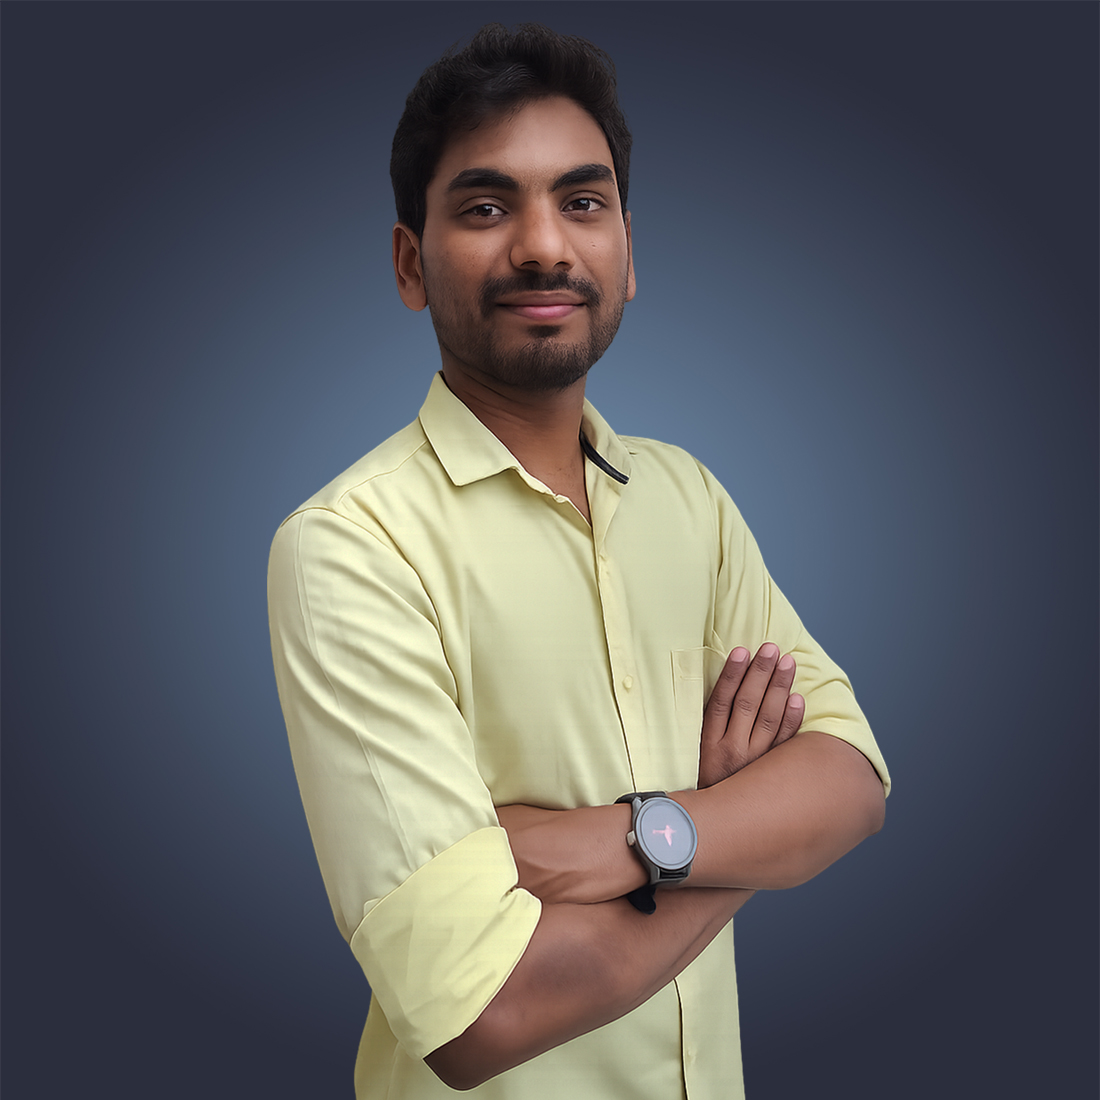
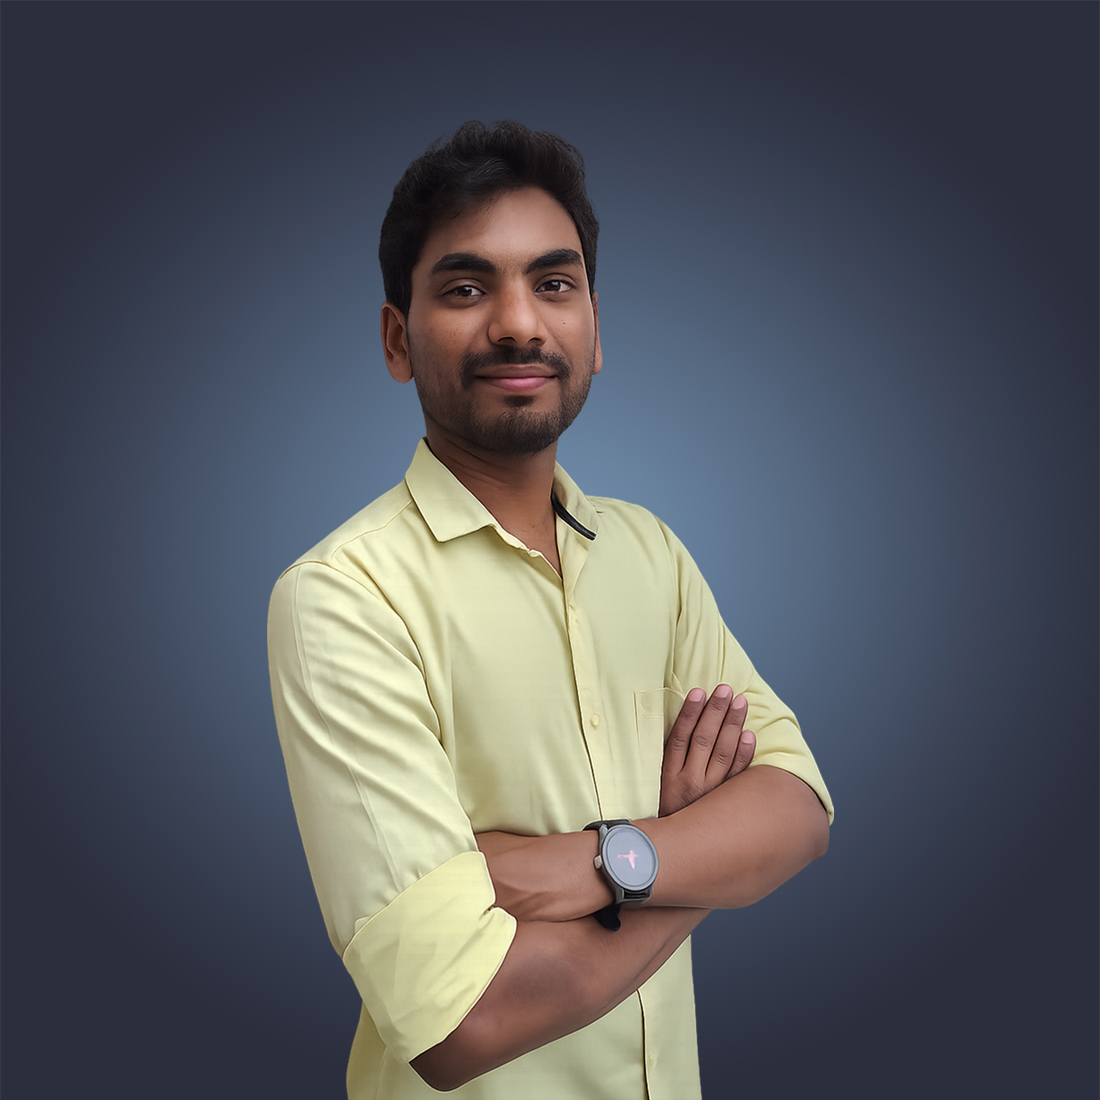
About me section layout updated in Grid in css

Changed region(s): [[0.2164, 0.0309, 0.8345, 1.0]]

diff --git a/CSS/style-sheet1.css b/CSS/style-sheet1.css
@@ -9,6 +9,11 @@ body{
     background-color: black;
 }
 
+.space{
+    width: 100%;
+    height: 100vh;
+}
+
 
 /* HEADER section */
 .intro{
@@ -157,7 +162,6 @@ body{
     background-image: radial-gradient(800px at top left, rgb(22, 72, 1), rgb(0, 0, 0));  
     position: relative;
     z-index: 0;
-    margin-bottom:50vh;
 
 }
 
@@ -255,13 +259,27 @@ body{
 
 /* Section "About me" */
 .about-me{
-    height: 100vh!important;
+    width: 100%;
+    height: 100vh;
     background: radial-gradient(400px at center, rgb(19, 61, 1), rgb(0, 0, 0));
-    overflow: hidden;
+    /* overflow: hidden; */
+    padding: 1%;
+}   
+
+.about-box{
+    width:100%;
+    height: 100%;
+    display: grid;
+    grid-template-columns: 40% 50%;
+    grid-template-rows: 10% 70%;
+    gap: 10% 5%;
+    align-items: start;
+    justify-content: center;
 }
 
-
 .about{
+    width:100%;
+    height: 100%;
     background-image: linear-gradient(45deg, rgb(3, 150, 3), rgb(0, 245, 53), rgb(0, 221, 255), rgb(0, 221, 255));
     -webkit-background-clip: text;
     background-clip: text;
@@ -269,20 +287,16 @@ body{
     -webkit-text-fill-color: transparent;
     font-weight: bolder;
     font-size: 36px;
-    display: inline-block;
-
-}
-
-.box{
-    width: 100%; 
-    height: 90vh;
-    gap:5%;
-    padding: 0 5%;
+    /* display: inline-block; */
+    grid-column: span 2;
+    display: flex;
+    align-items: center;
+    justify-content: center;
 }
 
 .img-box{
-    width: 35%;
-    height: 90%;
+    width: 100%;
+    height: 100%;
     background: url("../images/about-me picture.jpg");
     background-repeat: no-repeat;
     background-position: center;
@@ -303,18 +317,15 @@ body{
 }
 
 .about-text{
-    width: 50%;
-    height: 90%;
-    /* border: 2px solid white; */
+    width: 100%;
+    height: 100%;
     padding: 3% 0%;
-    word-wrap: break-word;
-    p{
-        font-size: 20px;
-        font-weight: 600;
-        color: bisque;
-        margin: 20px 0px
-    }
-
+}
+.about-text p{
+    font-size: 20px;
+    font-weight: 600;
+    color: bisque;
+    margin: 20px 0px
 }
 
 .name{

diff --git a/JS/script.js b/JS/script.js
@@ -10,6 +10,8 @@ var sidebar_active = false;
 // Variables for Hero section
 const main_box = document.querySelector(".home-box");
 // Variables for About me section
+const about = document.querySelector(".about");
+const about_text = document.querySelector(".about-text");
 const port_img = document.querySelector(".img-box");
 const projects = document.querySelector(".projects");
 const textBox_1 = document.querySelector(".textBox-1");
@@ -22,6 +24,7 @@ const menuTween = gsap.to(toggleIcon, {rotation:180, duration:1, repeat: 0});
 // Nav bar hidding script
 var lastScrollTop = 0;
 
+// Nav action listner for hiding 
 window.addEventListener("scroll",()=>{
     var scrollVal = window.pageYOffset || document.documentElement.scrollTop;
     if(scrollVal > lastScrollTop){
@@ -55,19 +58,36 @@ gsap.to(main_box, {
     opacity: 0
 });
 
-// About me scroll trigger
-// gsap.from(port_img, {
+// About me scroll trigger Animation
+// Animation for "About me" heading 
+// gsap.from(about, {
 //     scrollTrigger:{
-//         trigger: port_img,
-//         start: "top center",
-//         end: "bottom center",
+//         trigger: ".about-box",
+//         start: "top top",
+//         end: "bottom top",
 //         scrub:true,
 //         pin:true,
 //         markers: true
 //     },
-//     xPercent:-200,
+//     y: 100,
 //     opacity: 0,
 // });
+
+// gsap.from(port_img, {
+//     scrollTrigger:{
+//         trigger: ".about-box",
+//         start: "top top",
+//         end: "bottom top",
+//         scrub: true,
+//         pin: true,
+//         markers: true
+//     },
+//     x:100,
+//     opacity:0
+// })
+
+
+
 
 // Project I animation
 // Pro-I text
@@ -81,7 +101,7 @@ gsap.from(textBox_1, {
         
     },
     xPercent: -100,
-    delay: 1
+    // delay: 1
 });
 // Pro-I Video
 gsap.from(videoBox_1, {

diff --git a/index.html b/index.html
@@ -23,8 +23,8 @@
 
 <!-- STYLE SHEET LINKS -->
     <link rel="stylesheet" href="CSS/style-sheet1.css">  
-    <link rel="stylesheet" href="CSS/style-sheet1-mobile.css">
     <link rel="stylesheet" href="CSS/style-sheet1-tab.css">
+    <link rel="stylesheet" href="CSS/style-sheet1-mobile.css">
 
 <!-- GSAP link -->
     <script src="https://cdn.jsdelivr.net/npm/gsap@3.13.0/dist/gsap.min.js"></script>
@@ -130,14 +130,16 @@
         </div>
 
     </section><!-- Section 2 "Home" is ending here-->
-
+    <section class="space">
+        <!-- For empty space -->
+    </section>
 <!-- Section 3 for About me  -->
-    <section class="about-me container-fluid p-0">
-        <h2 class="about text-success text-center w-100 ">About Me</h2>
-        <div class="box d-flex justify-content-center align-items-center" >
+    <section class="about-me d-flex justify-content-center align-items-center flex-column ">
+        <div class="about-box">
+        <!-- Section Topic -->
+            <h2 class="about border text-success text-center w-100 ">About Me</h2>
         <!-- Div for About me image -->
-            <div class="img-box">
-            </div>
+            <div class="img-box"></div>
         <!-- Div for About me text -->
             <div class="about-text">
                 <h2 class="name">SIVANESHWARAN</h2>
@@ -145,8 +147,6 @@
                 <p class="hilight">"I believe in continuous learning and staying updated with the latest technologies to deliver innovative solutions that make a difference"</p>
             </div>
         </div>
-
-
     </section>
 
 

diff --git a/CSS/style-sheet1-mobile.css b/CSS/style-sheet1-mobile.css
@@ -69,8 +69,17 @@
 
 /* About me section for mobile screen */
     .about-me{
-        height: 150vh!important;
+        height: 200vh;
         background: radial-gradient(350px at right, rgb(22, 72, 1), rgb(0, 0, 0));
+    }
+
+    .about-box{
+        grid-template-columns: repeat(1, 1fr);
+        grid-template-rows: 5% 40% 40%;
+        row-gap: 2%;
+        column-gap: 5%;
+        grid-auto-flow: column;
+        padding: 2%;
     }
 
     .about{
@@ -81,25 +90,13 @@
         -webkit-text-fill-color: transparent;
         font-weight: bolder;
         font-size: 26px;
-        display: inline-block;
-
-    }
-
-    .box{
-        width: 100%;
-        height: 190vh;
-        flex-direction: column;
-        justify-content: space-evenly;
-        /* padding: 5% 5%; */
-    }
-
-    .img-box{
-        width:90%;
-        height: 80vh!important;
+        /* display: inline-block; */
+        grid-column: span 1;
     }
 
     .about-text{
-        width: 90%;
+        text-align: center;
+
         h2{
             text-align: center;
             font-size: 20px;
@@ -110,10 +107,6 @@
         }
 
     }
-
-
-
-
 
 
 /* Project 1 mobile screen */

diff --git a/CSS/style-sheet1-tab.css b/CSS/style-sheet1-tab.css
@@ -54,28 +54,35 @@
 
 /* About me section for Tablet */
     .about-me{
-        height: 200vh!important;
-        flex-direction: column;
+        width: 100%;
+        height: 200vh;
     }
 
-    .box{
+    .about-box{
+        grid-template-columns: repeat(1, 1fr);
+        grid-template-rows: 5% 40% 40%;
+        row-gap: 2%;
+        column-gap: 5%;
+        grid-auto-flow: column;
+        padding: 2%;
+    }
+
+    .about{
         width: 100%;
-        height: 190vh;
-        gap: 10%;
-        flex-direction: column;
-        padding: 5% 0%;
+        height: 100%;
+        grid-column: span 1;
     }
 
     .img-box{
-        width:90%;
+        width:100%;
         height: 100%;
     }
 
     .about-text{
-        width: 90%;
+        width: 100%;
         height: 100%;
         justify-content: center;
-
+        padding: 2%;
         h2{
             text-align: center;
         }
